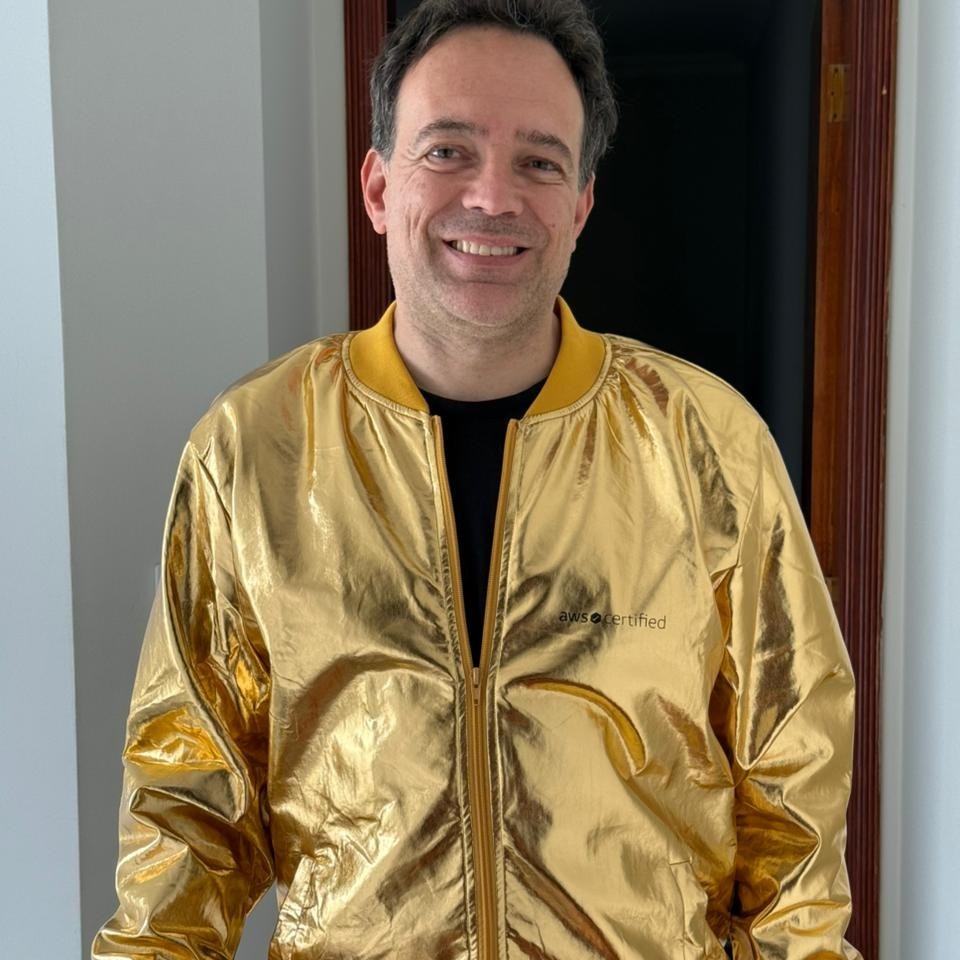
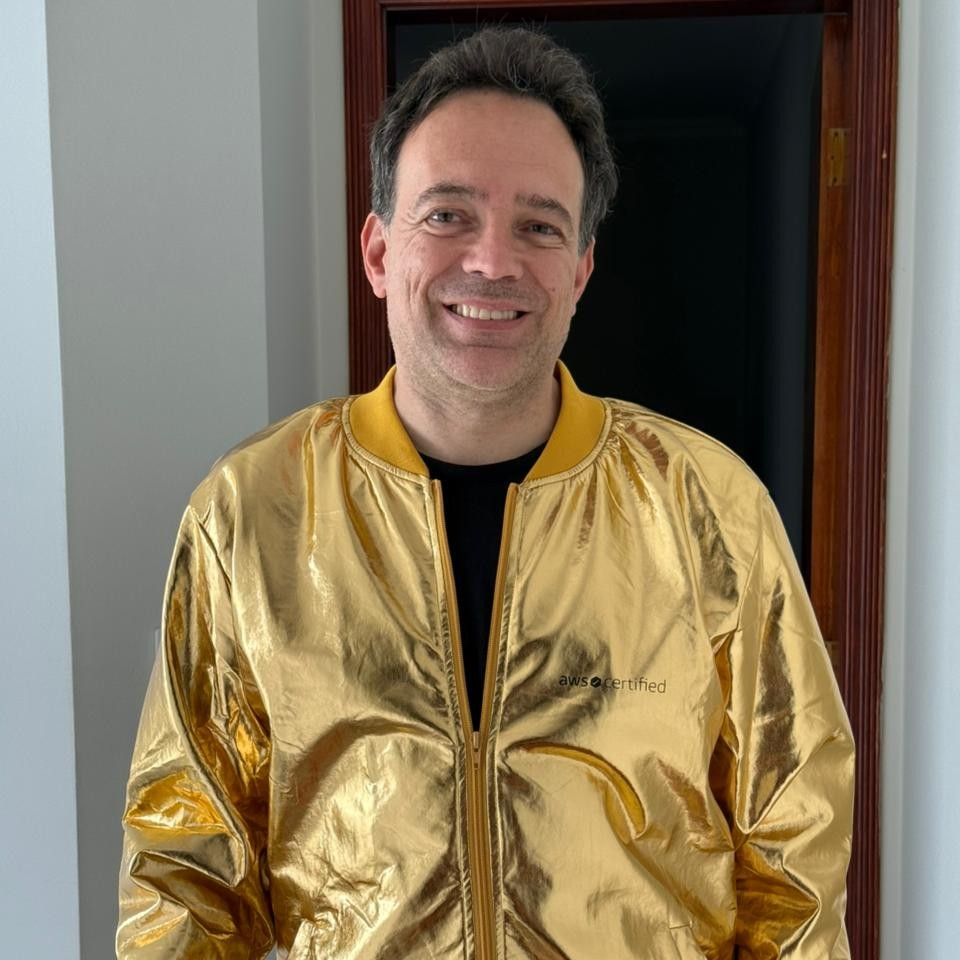
Re-crop photos from originals (pure top) + remove object-position

diff --git a/index.html b/index.html
@@ -247,7 +247,7 @@
     .member-card { opacity: 0; transform: translateY(30px); transition: all 0.5s ease; }
     .member-card.visible { opacity: 1; transform: translateY(0); }
     .member-card .photo {
-      width: 90px; height: 90px; border-radius: 50%; object-fit: cover; object-position: top;
+      width: 90px; height: 90px; border-radius: 50%; object-fit: cover; 
       border: 3px solid #FFD700; margin: 0 auto 14px; display: block;
     }
     .member-card .avatar {
